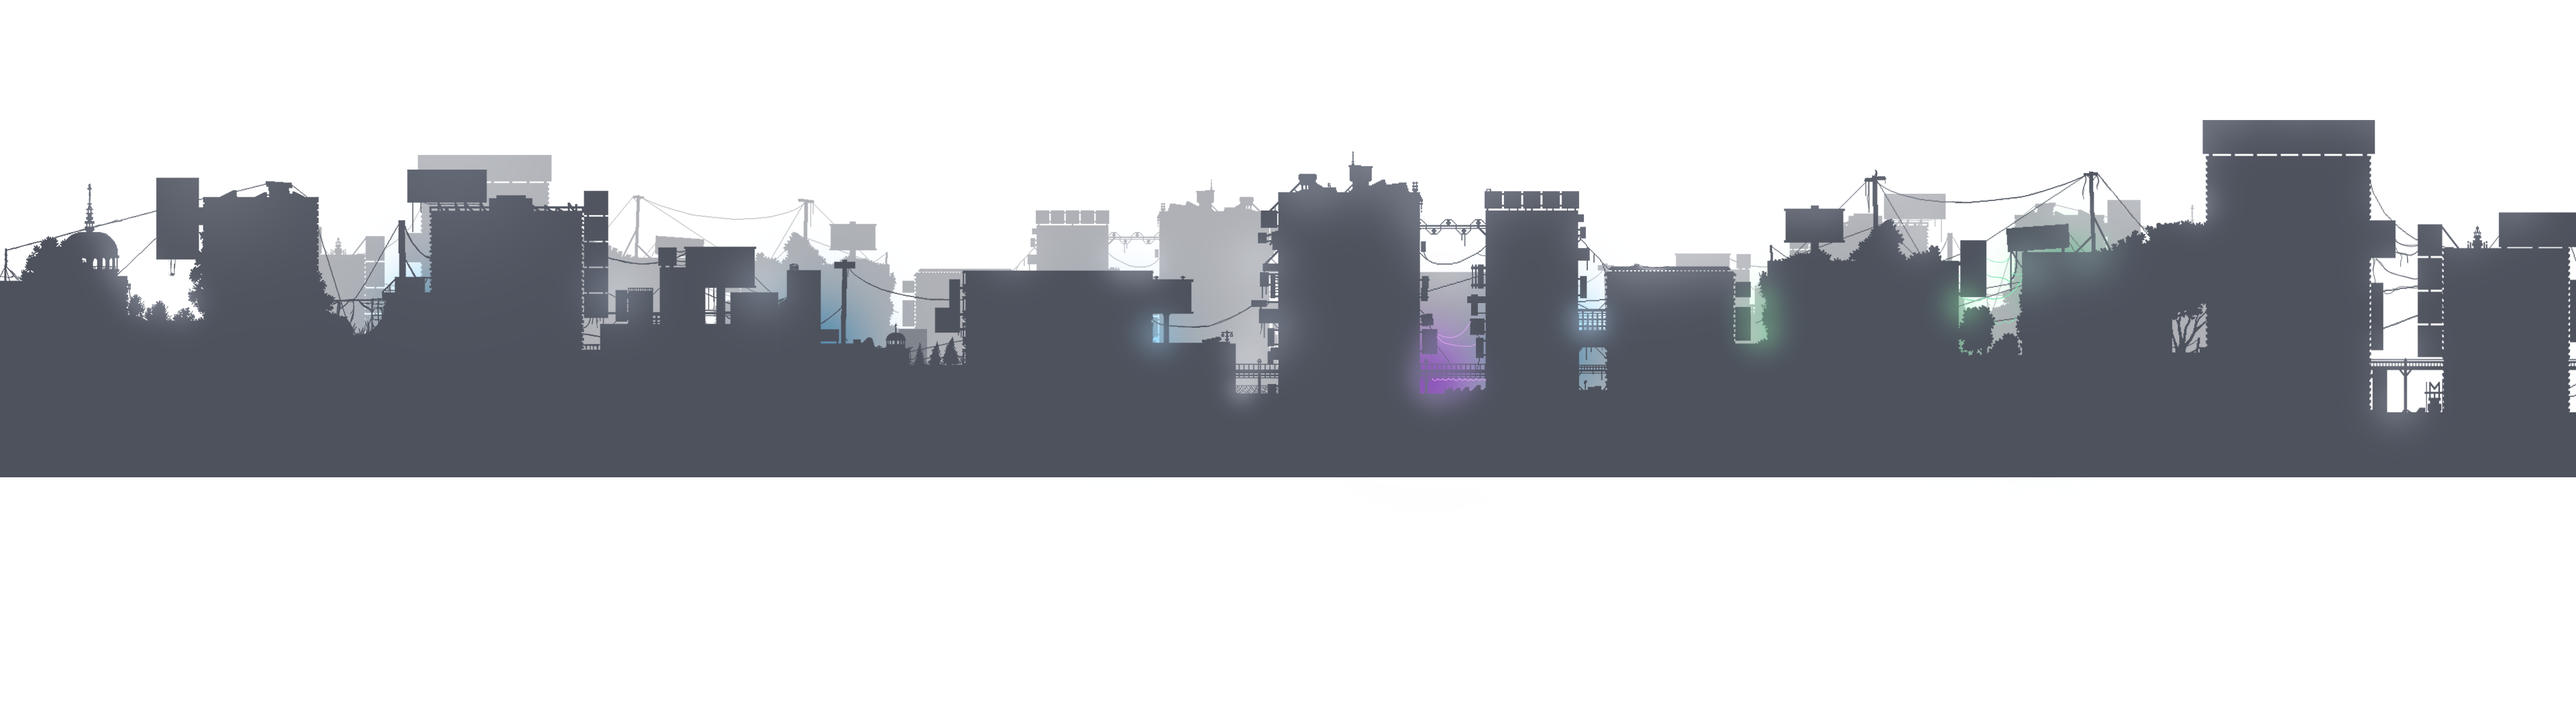
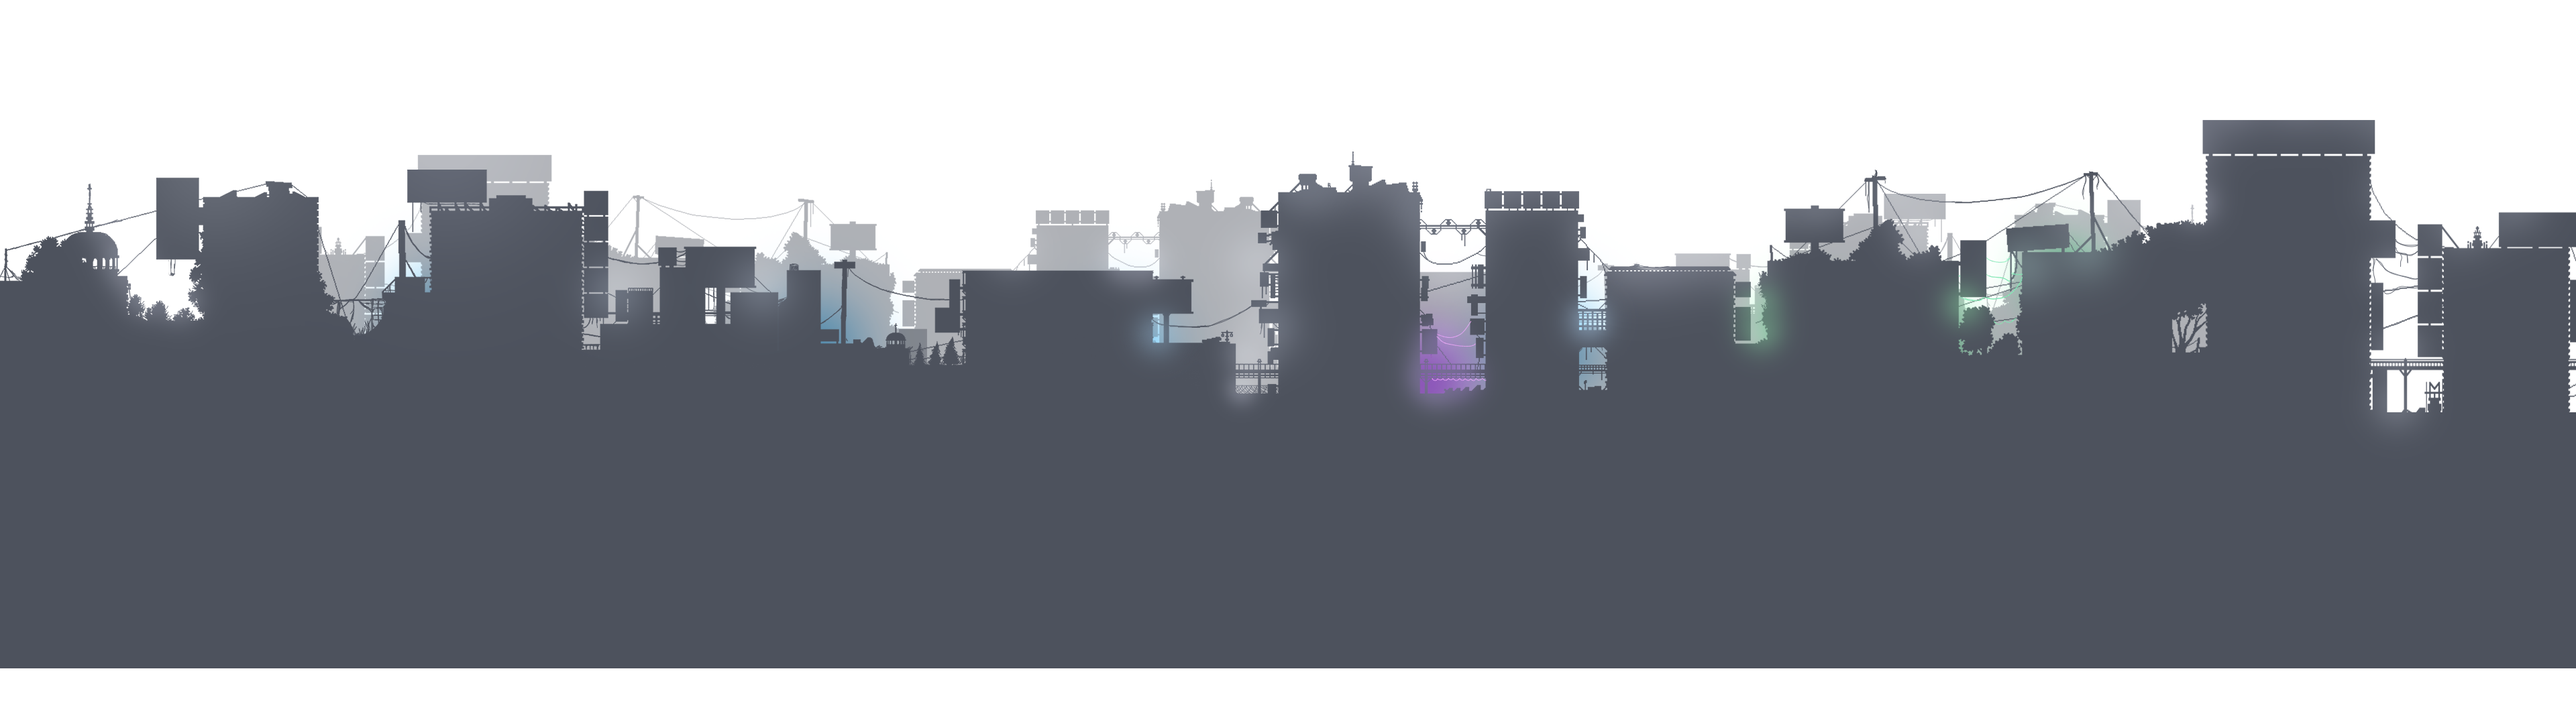
QOL: Parvietoti faili cita vieta, sakartoti faili. Uzlabots Parralax backgrounds, Pamainits fonts.

Changed region(s): [[0.0, 0.6417, 1.0, 0.9472]]

diff --git a/main.py b/main.py
@@ -2,6 +2,8 @@ import math
 import os
 import sys
 
+sys.path.insert(0, os.path.join(os.path.dirname(os.path.abspath(__file__)), "src"))
+
 import pygame
 
 from game import Game
@@ -14,6 +16,8 @@ from settings import (
     WHITE, BLACK, GRAY,
 )
 
+
+VERSION = "1.0"
 
 PLAY, EDITOR, SCORES, QUIT = "play", "editor", "scores", "quit"
 
@@ -45,12 +49,12 @@ class MainMenu:
         pygame.display.set_caption(TITLE)
         self._clock = pygame.time.Clock()
 
-        self._font_title = pygame.font.SysFont("Arial",    140, bold=True)
-        self._font_item  = pygame.font.SysFont("Arial",    56,  bold=True)
-        self._font_idx   = pygame.font.SysFont("Consolas", 20,  bold=True)
-        self._font_tag   = pygame.font.SysFont("Consolas", 22,  bold=True)
-        self._font       = pygame.font.SysFont("Arial",    28)
-        self._font_small = pygame.font.SysFont("Arial",    22)
+        self._font_title = pygame.font.SysFont("bahnschrift", 140,)
+        self._font_item  = pygame.font.SysFont("bahnschrift", 56, )
+        self._font_idx   = pygame.font.SysFont("bahnschrift", 20, )
+        self._font_tag   = pygame.font.SysFont("bahnschrift", 22, )
+        self._font       = pygame.font.SysFont("bahnschrift", 28)
+        self._font_small = pygame.font.SysFont("bahnschrift", 22)
 
         # Izvēlnes punkti
         self._items = [

diff --git a/src/game.py b/src/game.py
@@ -45,13 +45,13 @@ class Game:
         self._clock = pygame.time.Clock()
 
         # Fonti
-        self._font_huge = pygame.font.SysFont("Arial", 64, bold=True)
-        self._font_big = pygame.font.SysFont("Arial", 36, bold=True)
-        self._font = pygame.font.SysFont("Arial", 24)
-        self._font_code = pygame.font.SysFont("Consolas", 20)
-        self._font_code_bold = pygame.font.SysFont("Consolas", 20, bold=True)
-        self._font_code_small = pygame.font.SysFont("Consolas", 15, bold=True)
-        self._font_small = pygame.font.SysFont("Arial", 18)
+        self._font_huge = pygame.font.SysFont("bahnschrift", 64, bold=True)
+        self._font_big = pygame.font.SysFont("bahnschrift", 36, bold=True)
+        self._font = pygame.font.SysFont("bahnschrift", 24)
+        self._font_code = pygame.font.SysFont("bahnschrift", 20)
+        self._font_code_bold = pygame.font.SysFont("bahnschrift", 20, bold=True)
+        self._font_code_small = pygame.font.SysFont("bahnschrift", 15, bold=True)
+        self._font_small = pygame.font.SysFont("bahnschrift", 18)
 
         self._player = Player(player_name)
 

diff --git a/src/level_editor.py b/src/level_editor.py
@@ -47,9 +47,9 @@ class LevelEditor:
         self._clock = pygame.time.Clock()
 
         # Fonti
-        self._font = pygame.font.SysFont("Arial", 20)
-        self._font_small = pygame.font.SysFont("Arial", 14)
-        self._font_big = pygame.font.SysFont("Arial", 28, bold=True)
+        self._font = pygame.font.SysFont("bahnschrift", 20)
+        self._font_small = pygame.font.SysFont("bahnschrift", 14)
+        self._font_big = pygame.font.SysFont("bahnschrift", 28, bold=True)
 
         # Registry
         self._registry = TileRegistry()

diff --git a/src/tile.py b/src/tile.py
@@ -186,8 +186,8 @@ class DoorExitTile(Tile):
             TILE_SIZE * 2, TILE_SIZE * 2,
         )
         self._locked = True
-        self._font_label = pygame.font.SysFont("Consolas", 14, bold=True)
-        self._font_exit  = pygame.font.SysFont("Consolas", 28, bold=True)
+        self._font_label = pygame.font.SysFont("bahnschrift", 14, bold=True)
+        self._font_exit  = pygame.font.SysFont("bahnschrift", 28, bold=True)
 
     # Atslēdz durvis uz nākamo pasauli
     def unlock(self):

diff --git a/src/level.py b/src/level.py
@@ -204,7 +204,7 @@ class Level:
             self._mono_cache = {}
         key = (size, bold)
         if key not in self._mono_cache:
-            self._mono_cache[key] = pygame.font.SysFont("Consolas", size, bold=bold)
+            self._mono_cache[key] = pygame.font.SysFont("bahnschrift", size, bold=bold)
         return self._mono_cache[key]
 
     # Ģenerē sesijas ID no uzdevuma teksta

diff --git a/src/shader_pipeline.py b/src/shader_pipeline.py
@@ -14,7 +14,7 @@ except Exception:
     _MODERNGL_AVAILABLE = False
 
 
-SHADER_DIR = os.path.join(os.path.dirname(os.path.abspath(__file__)), "shaders")
+SHADER_DIR = os.path.join(os.path.dirname(os.path.dirname(os.path.abspath(__file__))), "shaders")
 
 
 class ShaderPipeline:

diff --git a/src/settings.py b/src/settings.py
@@ -3,7 +3,7 @@ import os
 import pygame
 
 
-BASE_DIR = os.path.dirname(os.path.abspath(__file__))
+BASE_DIR = os.path.dirname(os.path.dirname(os.path.abspath(__file__)))
 
 
 # Dizaina izšķirtspēja
